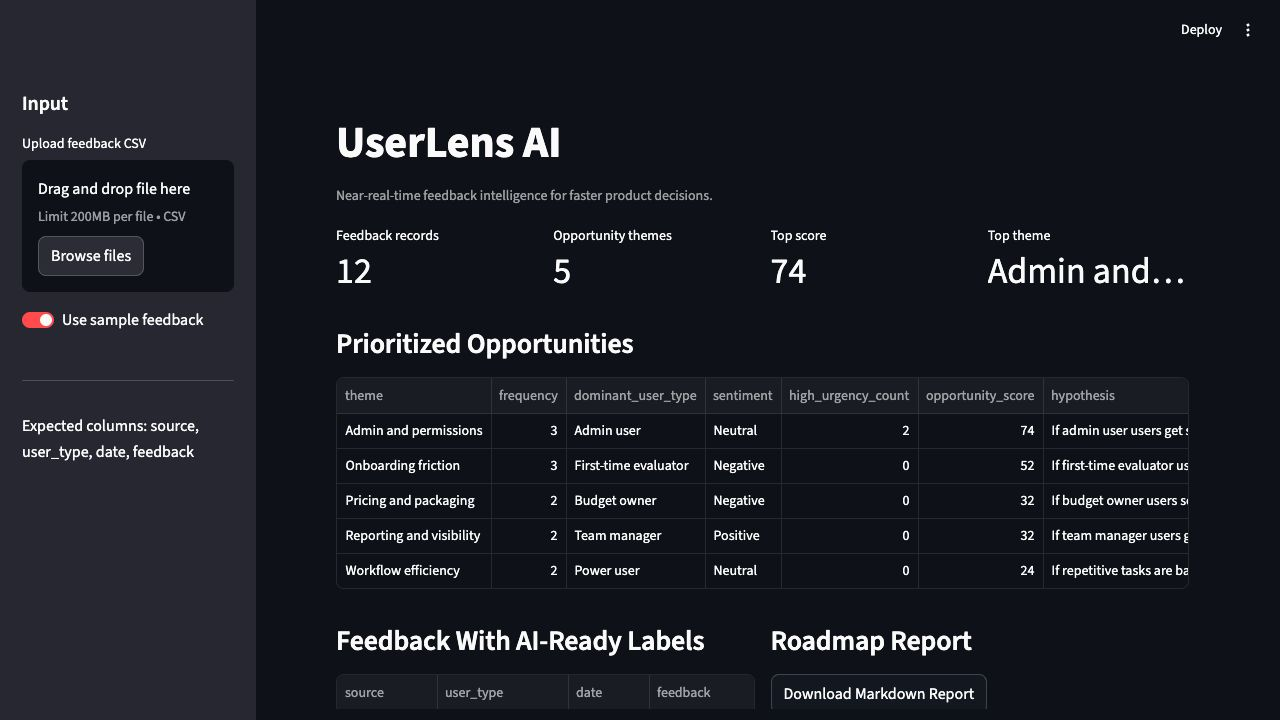
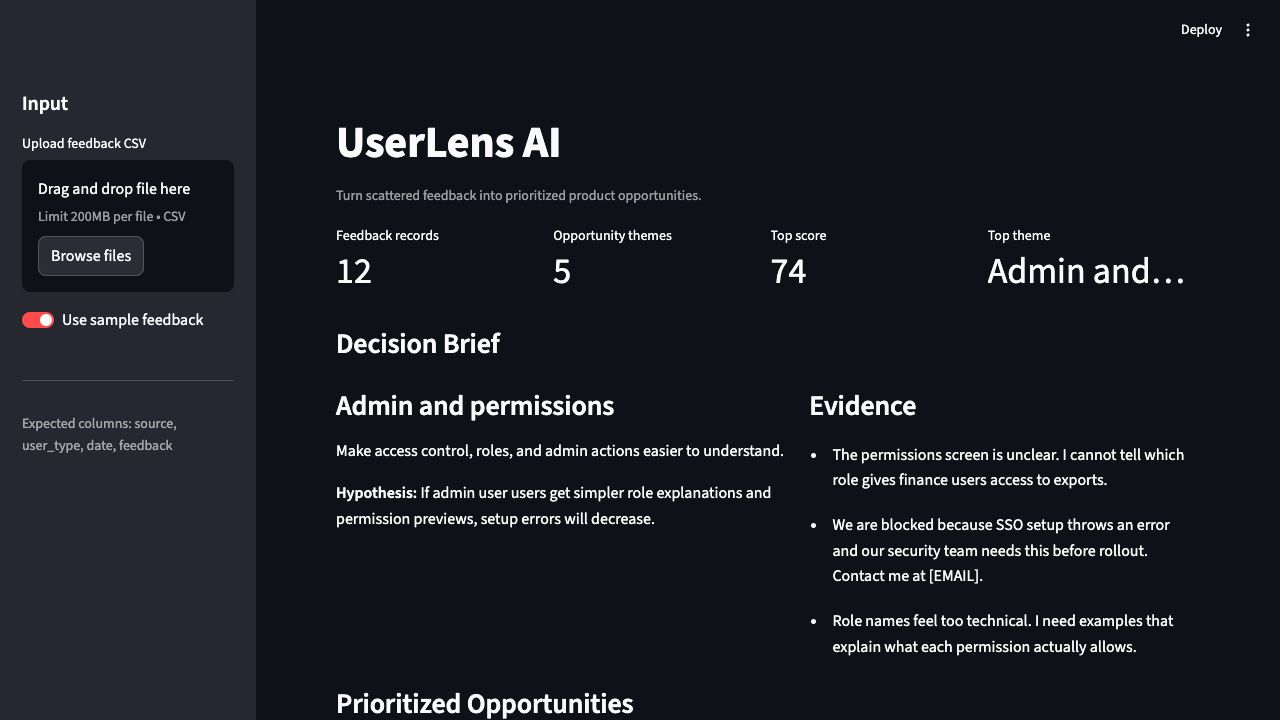
Simplify demo UI and add workflow visual

diff --git a/app.py b/app.py
@@ -20,14 +20,14 @@ SAMPLE_FEEDBACK = ROOT / "examples" / "sample_feedback.csv"
 st.set_page_config(page_title="UserLens AI", page_icon="UL", layout="wide")
 
 st.title("UserLens AI")
-st.caption("Near-real-time feedback intelligence for faster product decisions.")
+st.caption("Turn scattered feedback into prioritized product opportunities.")
 
 with st.sidebar:
     st.header("Input")
     uploaded = st.file_uploader("Upload feedback CSV", type=["csv"])
     use_sample = st.toggle("Use sample feedback", value=True)
     st.divider()
-    st.write("Expected columns: source, user_type, date, feedback")
+    st.caption("Expected columns: source, user_type, date, feedback")
 
 
 def load_records():
@@ -54,6 +54,20 @@ metric_cols[1].metric("Opportunity themes", len(analysis["opportunities"]))
 metric_cols[2].metric("Top score", analysis["top_opportunity"]["opportunity_score"])
 metric_cols[3].metric("Top theme", analysis["top_opportunity"]["theme"])
 
+top = analysis["top_opportunity"]
+
+st.subheader("Decision Brief")
+brief_cols = st.columns([1.2, 1])
+with brief_cols[0]:
+    st.markdown(f"### {top['theme']}")
+    st.write(top["need"])
+    st.markdown(f"**Hypothesis:** {top['hypothesis']}")
+
+with brief_cols[1]:
+    st.markdown("### Evidence")
+    for evidence in top["evidence"]:
+        st.write(f"- {evidence}")
+
 st.subheader("Prioritized Opportunities")
 opportunity_df = pd.DataFrame(analysis["opportunities"])
 st.dataframe(
@@ -68,22 +82,19 @@ st.dataframe(
             "hypothesis",
         ]
     ],
-    use_container_width=True,
+    width="stretch",
     hide_index=True,
 )
 
-left, right = st.columns([1, 1])
-with left:
-    st.subheader("Feedback With AI-Ready Labels")
-    st.dataframe(pd.DataFrame(analysis["records"]), use_container_width=True, hide_index=True)
+st.download_button(
+    "Download Roadmap Report",
+    report,
+    file_name="userlens_feedback_report.md",
+    mime="text/markdown",
+)
 
-with right:
-    st.subheader("Roadmap Report")
-    st.download_button(
-        "Download Markdown Report",
-        report,
-        file_name="userlens_feedback_report.md",
-        mime="text/markdown",
-    )
+with st.expander("View full roadmap report"):
     st.markdown(report)
 
+with st.expander("View labeled feedback"):
+    st.dataframe(pd.DataFrame(analysis["records"]), width="stretch", hide_index=True)

diff --git a/README.md b/README.md
@@ -76,6 +76,8 @@ This project demonstrates AI product management skills across:
 
 ## Architecture
 
+![UserLens AI workflow](assets/userlens-workflow.svg)
+
 ```mermaid
 flowchart LR
     A[Feedback CSV] --> B[PII Redaction]
